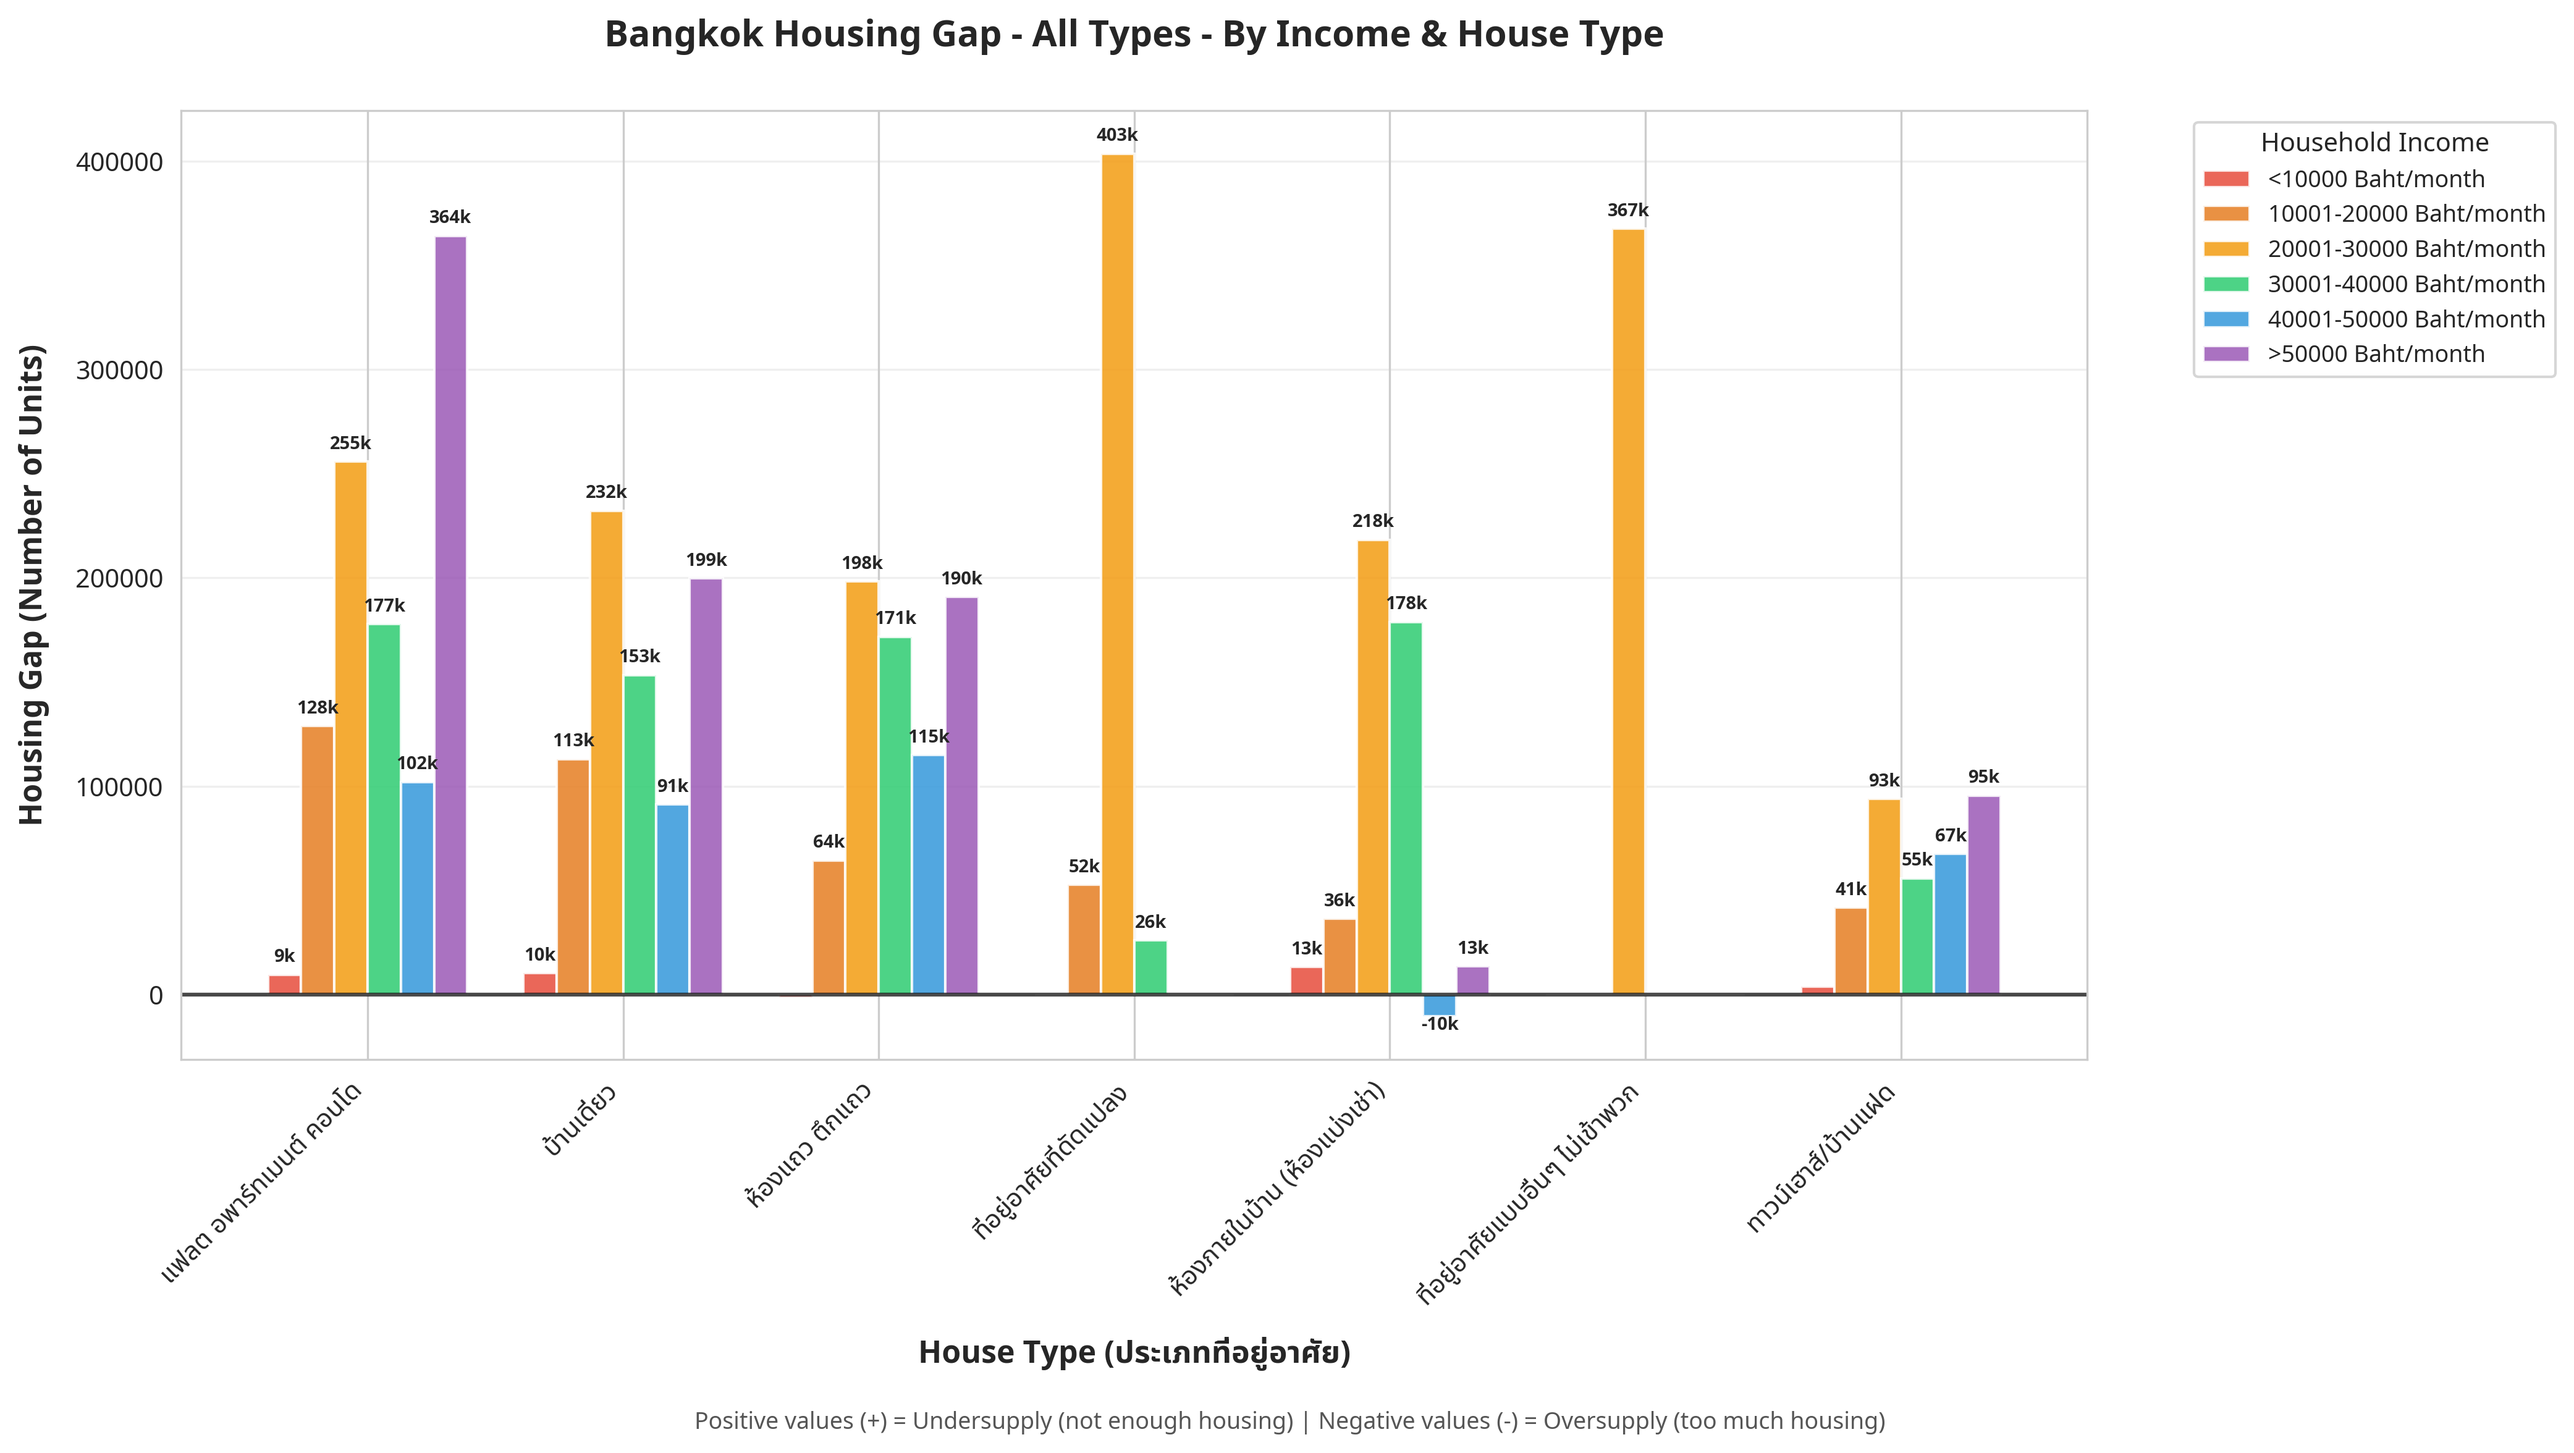
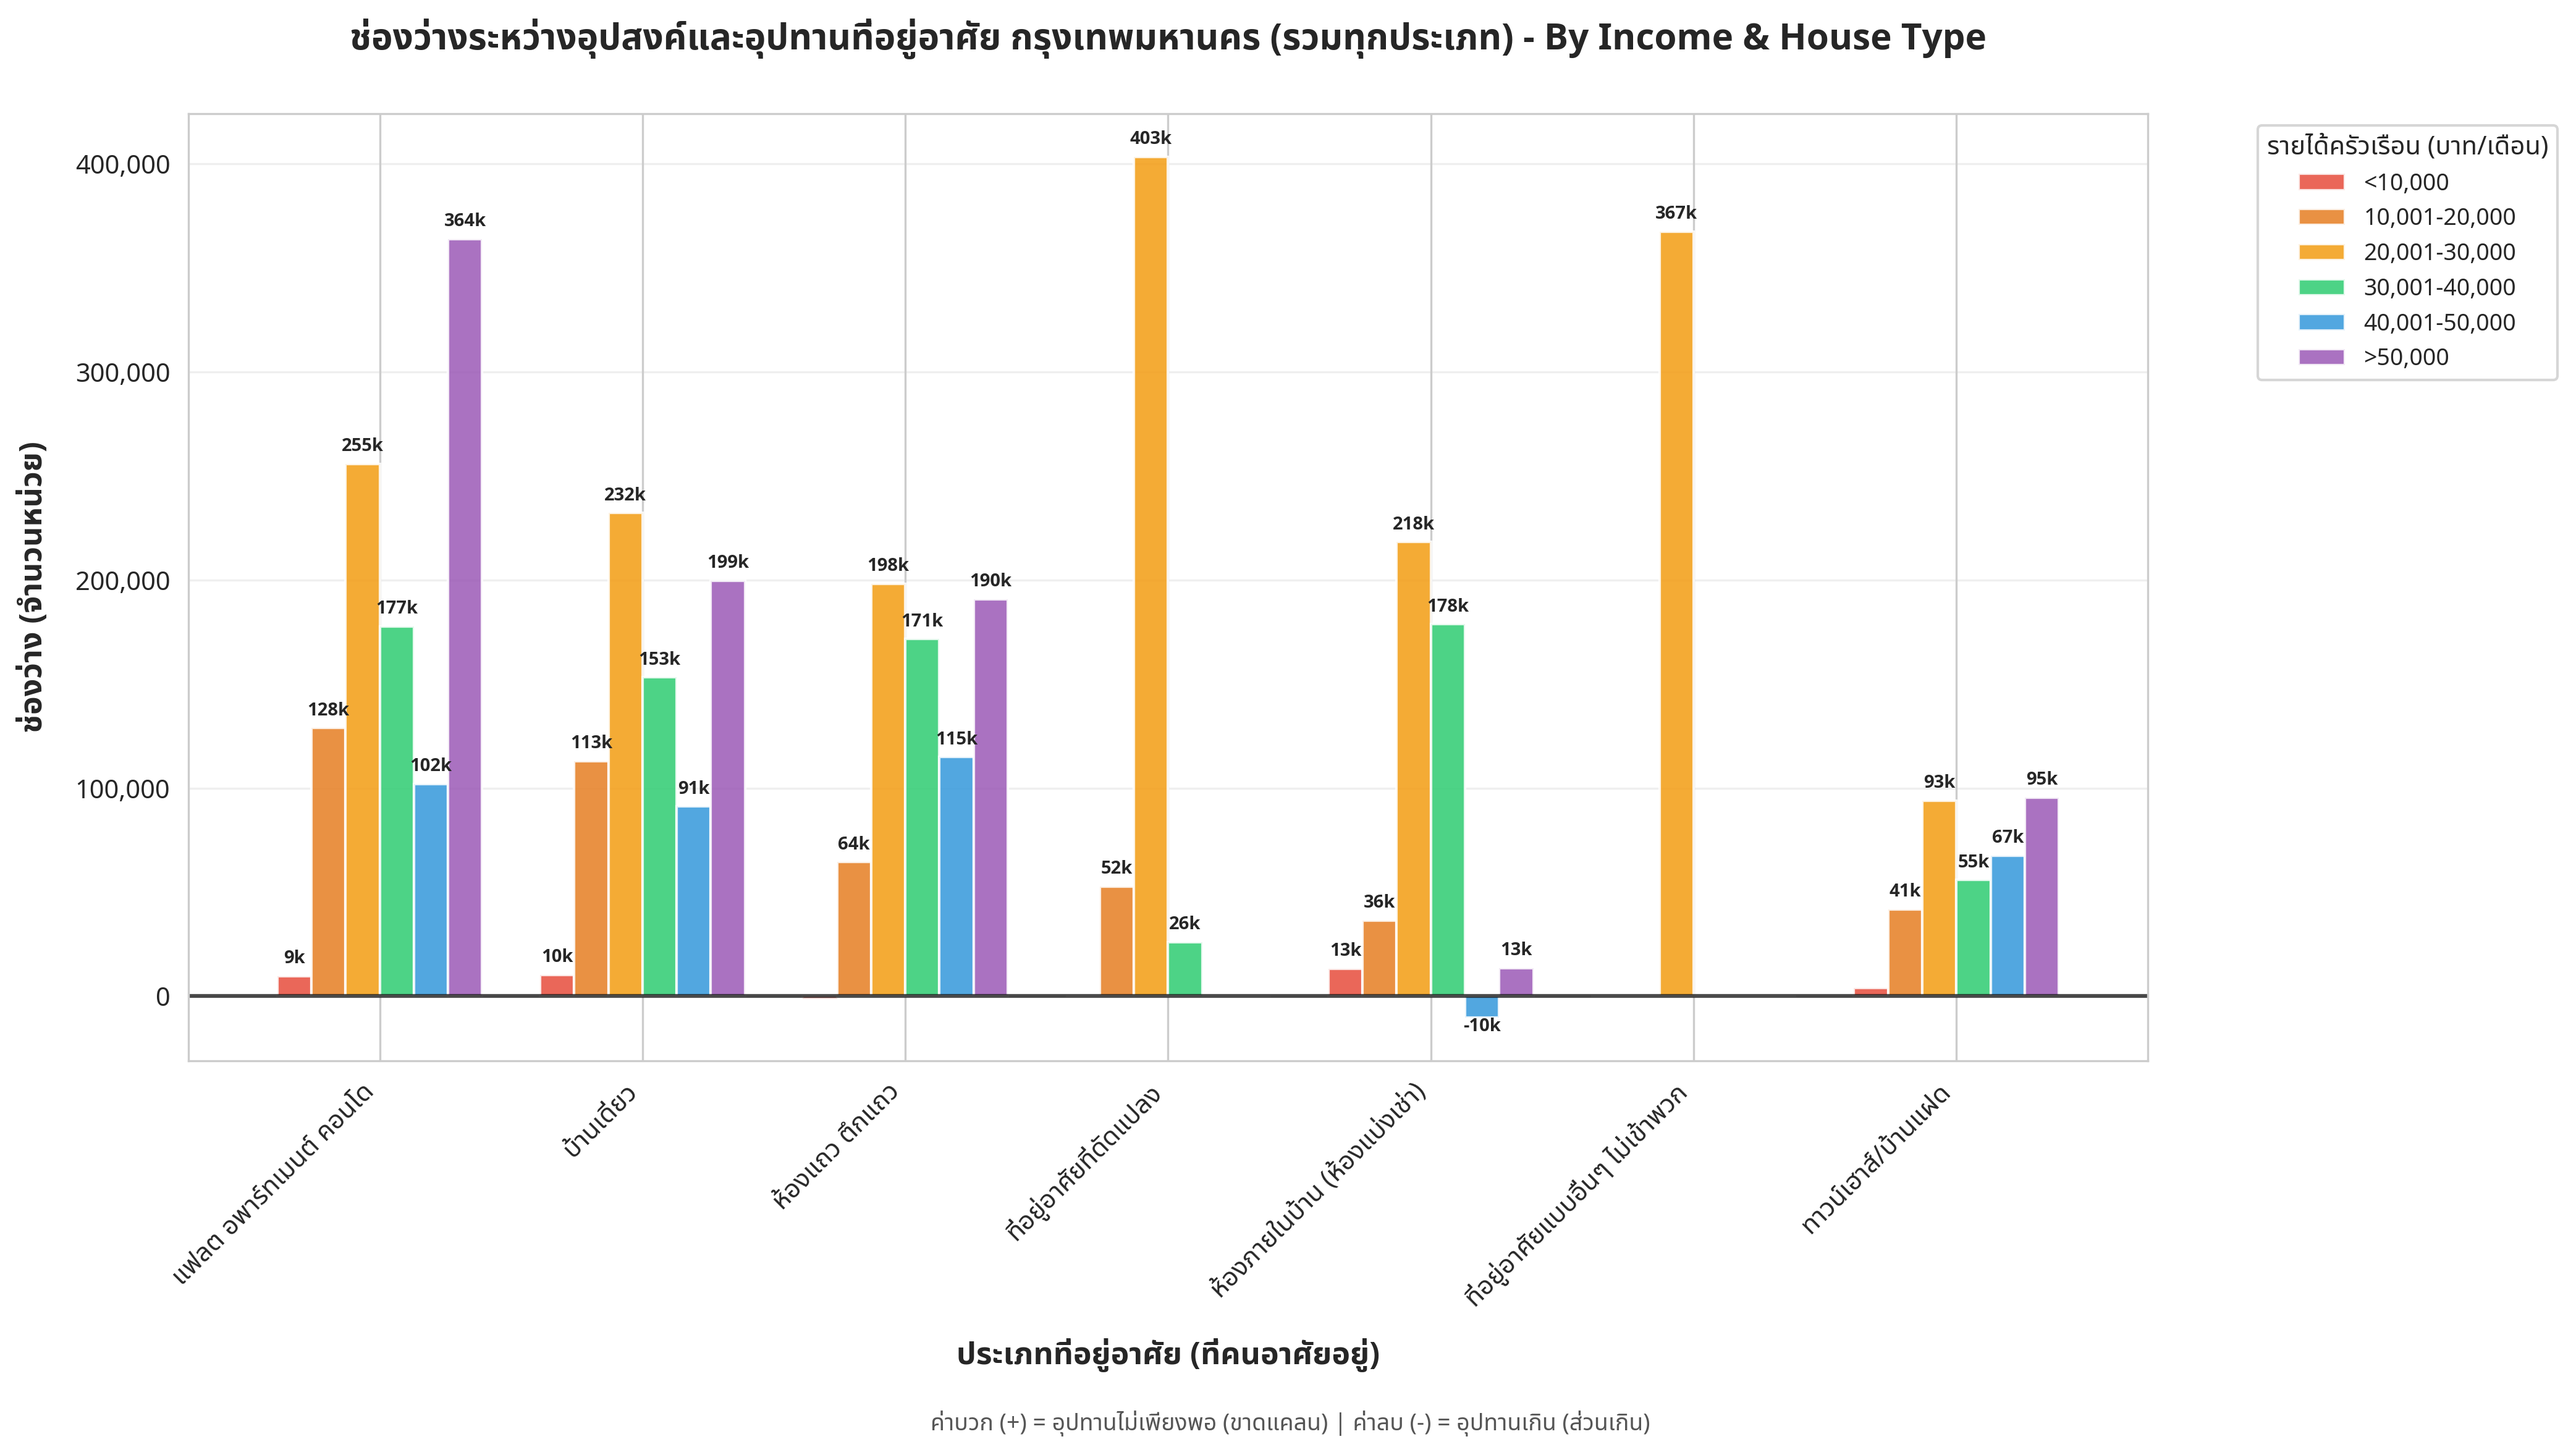
housing chart

diff --git a/generate_housing_gap_charts.py b/generate_housing_gap_charts.py
@@ -9,6 +9,7 @@ import matplotlib.pyplot as plt
 import seaborn as sns
 import os
 import numpy as np
+from matplotlib.ticker import FuncFormatter
 
 # Set seaborn style first
 sns.set_style("whitegrid")
@@ -18,6 +19,11 @@ sns.set_style("whitegrid")
 plt.rcParams['font.sans-serif'] = ['Noto Sans Thai', 'Angsana New', 'Tahoma', 'Browallia New']
 plt.rcParams['font.family'] = 'sans-serif'
 plt.rcParams['axes.unicode_minus'] = False
+
+# Formatter function for axis labels with thousand separators
+def comma_formatter(x, pos):
+    """Format numbers with comma thousand separators"""
+    return f'{int(x):,}'
 
 # Income level colors (different color for each income bracket)
 income_colors = {
@@ -81,8 +87,19 @@ def create_grouped_bar_chart(df, gap_column, title, output_filename):
             offset = (i - 2.5) * width  # Center the bars
             color = income_colors.get(income, '#808080')
 
+            # Format legend label with commas
+            if '-' in income:
+                parts = income.split('-')
+                legend_label = f'{int(parts[0]):,}-{int(parts[1]):,}'
+            elif income.startswith('<'):
+                legend_label = f'<{int(income[1:]):,}'
+            elif income.startswith('>'):
+                legend_label = f'>{int(income[1:]):,}'
+            else:
+                legend_label = income
+
             bars = ax.bar(x + offset, values, width,
-                         label=f'{income} Baht/month',
+                         label=legend_label,
                          color=color, alpha=0.85)
 
             # Add value labels on bars (only for significant values)
@@ -108,14 +125,17 @@ def create_grouped_bar_chart(df, gap_column, title, output_filename):
     ax.axhline(y=0, color='black', linestyle='-', linewidth=1.5, alpha=0.7)
 
     # Formatting
-    ax.set_xlabel('House Type (ประเภทที่อยู่อาศัย)', fontsize=12, fontweight='bold', labelpad=10)
-    ax.set_ylabel('Housing Gap (Number of Units)', fontsize=12, fontweight='bold', labelpad=10)
+    ax.set_xlabel('ประเภทที่อยู่อาศัย (ที่คนอาศัยอยู่)', fontsize=12, fontweight='bold', labelpad=10)
+    ax.set_ylabel('ช่องว่าง (จำนวนหน่วย)', fontsize=12, fontweight='bold', labelpad=10)
     ax.set_title(title, fontsize=14, fontweight='bold', pad=25)
     ax.set_xticks(x)
     ax.set_xticklabels(house_types, rotation=45, ha='right')
 
+    # Format Y-axis with comma thousand separators
+    ax.yaxis.set_major_formatter(FuncFormatter(comma_formatter))
+
     # Legend
-    ax.legend(title='Household Income', bbox_to_anchor=(1.05, 1),
+    ax.legend(title='รายได้ครัวเรือน (บาท/เดือน)', bbox_to_anchor=(1.05, 1),
              loc='upper left', frameon=True, fontsize=9)
 
     # Grid
@@ -124,7 +144,7 @@ def create_grouped_bar_chart(df, gap_column, title, output_filename):
 
     # Add annotation explaining positive/negative values
     fig.text(0.5, 0.01,
-            'Positive values (+) = Undersupply (not enough housing) | Negative values (-) = Oversupply (too much housing)',
+            'ค่าบวก (+) = อุปทานไม่เพียงพอ (ขาดแคลน) | ค่าลบ (-) = อุปทานเกิน (ส่วนเกิน)',
             fontsize=9, style='italic', color='#555555', ha='center')
 
     plt.tight_layout(rect=[0, 0.03, 1, 0.98])
@@ -168,10 +188,21 @@ def create_stacked_bar_chart(df, gap_column, title, output_filename):
         if income in pivot_df.columns:
             color = income_colors.get(income, '#808080')
 
+            # Format legend label with commas
+            if '-' in income:
+                parts = income.split('-')
+                legend_label = f'{int(parts[0]):,}-{int(parts[1]):,}'
+            elif income.startswith('<'):
+                legend_label = f'<{int(income[1:]):,}'
+            elif income.startswith('>'):
+                legend_label = f'>{int(income[1:]):,}'
+            else:
+                legend_label = income
+
             # Positive stack
             pos_vals = pivot_positive[income].fillna(0).values
             ax.bar(x_pos, pos_vals, bottom=bottom_pos,
-                  label=f'{income} Baht/month',
+                  label=legend_label,
                   color=color, alpha=0.85, width=0.7)
             bottom_pos += pos_vals
 
@@ -195,14 +226,17 @@ def create_stacked_bar_chart(df, gap_column, title, output_filename):
     ax.axhline(y=0, color='black', linestyle='-', linewidth=1.5)
 
     # Formatting
-    ax.set_xlabel('House Type (ประเภทที่อยู่อาศัย)', fontsize=12, fontweight='bold', labelpad=10)
-    ax.set_ylabel('Total Housing Gap (Number of Units)', fontsize=12, fontweight='bold', labelpad=10)
+    ax.set_xlabel('ประเภทที่อยู่อาศัย (ที่คนอาศัยอยู่)', fontsize=12, fontweight='bold', labelpad=10)
+    ax.set_ylabel('ช่องว่างรวม (จำนวนหน่วย)', fontsize=12, fontweight='bold', labelpad=10)
     ax.set_title(title, fontsize=14, fontweight='bold', pad=25)
     ax.set_xticks(x_pos)
     ax.set_xticklabels(pivot_df.index, rotation=45, ha='right')
 
+    # Format Y-axis with comma thousand separators
+    ax.yaxis.set_major_formatter(FuncFormatter(comma_formatter))
+
     # Legend
-    ax.legend(title='Household Income', bbox_to_anchor=(1.05, 1),
+    ax.legend(title='รายได้ครัวเรือน (บาท/เดือน)', bbox_to_anchor=(1.05, 1),
              loc='upper left', frameon=True)
 
     # Grid
@@ -211,7 +245,7 @@ def create_stacked_bar_chart(df, gap_column, title, output_filename):
 
     # Annotation
     fig.text(0.5, 0.01,
-            'Positive (+) = Undersupply | Negative (-) = Oversupply',
+            'ค่าบวก (+) = อุปทานไม่เพียงพอ (ขาดแคลน) | ค่าลบ (-) = อุปทานเกิน (ส่วนเกิน)',
             fontsize=9, style='italic', color='#555555', ha='center')
 
     plt.tight_layout(rect=[0, 0.03, 1, 0.98])
@@ -234,34 +268,57 @@ def create_heatmap_chart(df, gap_column, title, output_filename):
     # Replace 0 with NaN to show as blank in heatmap
     pivot_df_display = pivot_df.replace(0, np.nan)
 
-    # Create custom annotation array (show blank for NaN/0, otherwise show value)
-    annot_array = pivot_df_display.applymap(lambda x: '' if pd.isna(x) else f'{x:.0f}')
+    # Create custom annotation array (show blank for NaN/0, otherwise show value with commas)
+    annot_array = pivot_df_display.applymap(lambda x: '' if pd.isna(x) else f'{x:,.0f}')
 
     # Create figure with more space
     fig, ax = plt.subplots(figsize=(14, 8))
 
     # Create heatmap with diverging colormap (red=undersupply, blue=oversupply)
     # Use mask for NaN values to make them white/blank
-    sns.heatmap(pivot_df, annot=annot_array, fmt='',
+    heatmap = sns.heatmap(pivot_df, annot=annot_array, fmt='',
                 cmap='RdYlGn_r',  # Reversed: red for positive (shortage), green for negative (excess)
                 center=0,
                 linewidths=0.5, linecolor='gray',
-                cbar_kws={'label': 'Housing Gap (units)'},
+                cbar_kws={'label': 'ช่องว่าง (หน่วย)'},
                 mask=pivot_df_display.isna(),  # Mask zero/NaN values
                 ax=ax)
 
+    # Format colorbar tick labels with commas
+    colorbar = heatmap.collections[0].colorbar
+    colorbar.ax.yaxis.set_major_formatter(FuncFormatter(comma_formatter))
+
     # Formatting
-    ax.set_xlabel('Household Income (Baht/month)', fontsize=12, fontweight='bold', labelpad=10)
-    ax.set_ylabel('House Type (ประเภทที่อยู่อาศัย)', fontsize=12, fontweight='bold', labelpad=10)
+    ax.set_xlabel('รายได้ครัวเรือน (บาท/เดือน)', fontsize=12, fontweight='bold', labelpad=10)
+    ax.set_ylabel('ประเภทที่อยู่อาศัย (ที่คนอาศัยอยู่)', fontsize=12, fontweight='bold', labelpad=10)
     ax.set_title(title, fontsize=14, fontweight='bold', pad=25)
 
+    # Format X-axis labels with commas (income ranges)
+    income_labels_formatted = []
+    for label in income_order:
+        if '-' in label:
+            # Format ranges like "10001-20000" -> "10,001-20,000"
+            parts = label.split('-')
+            formatted = f'{int(parts[0]):,}-{int(parts[1]):,}'
+            income_labels_formatted.append(formatted)
+        elif label.startswith('<'):
+            # Format "<10000" -> "<10,000"
+            num = label[1:]
+            income_labels_formatted.append(f'<{int(num):,}')
+        elif label.startswith('>'):
+            # Format ">50000" -> ">50,000"
+            num = label[1:]
+            income_labels_formatted.append(f'>{int(num):,}')
+        else:
+            income_labels_formatted.append(label)
+
     # Rotate labels
-    ax.set_xticklabels(ax.get_xticklabels(), rotation=45, ha='right')
+    ax.set_xticklabels(income_labels_formatted, rotation=45, ha='right')
     ax.set_yticklabels(ax.get_yticklabels(), rotation=0)
 
     # Annotation - positioned lower to avoid overlap
     fig.text(0.5, 0.01,
-            'Red = Undersupply (shortage) | Green = Oversupply (excess)',
+            'สีแดง = อุปทานไม่เพียงพอ (ขาดแคลน) | สีเขียว = อุปทานเกิน (ส่วนเกิน)',
             fontsize=9, style='italic', color='#555555', ha='center')
 
     plt.tight_layout(rect=[0, 0.03, 1, 0.98])  # Leave space for title and annotation
@@ -293,17 +350,20 @@ def generate_all_housing_charts():
     charts = [
         {
             'column': 'GAP_ALL',
-            'title': 'Bangkok Housing Gap - All Types',
+            'title': 'ช่องว่างระหว่างอุปสงค์และอุปทานที่อยู่อาศัย กรุงเทพมหานคร (รวมทุกประเภท)',
+            'title_en': 'Housing Supply-Demand Gap in Bangkok (All Types)',
             'type': 'all'
         },
         {
             'column': 'GAP_rent',
-            'title': 'Bangkok Housing Gap - Rental Market',
+            'title': 'ช่องว่างระหว่างอุปสงค์และอุปทานที่อยู่อาศัย กรุงเทพมหานคร (เช่า)',
+            'title_en': 'Housing Supply-Demand Gap in Bangkok (Rental)',
             'type': 'rent'
         },
         {
             'column': 'GAP_Sale',
-            'title': 'Bangkok Housing Gap - Sales Market (Ownership)',
+            'title': 'ช่องว่างระหว่างอุปสงค์และอุปทานที่อยู่อาศัย กรุงเทพมหานคร (ซื้อ/เป็นเจ้าของ)',
+            'title_en': 'Housing Supply-Demand Gap in Bangkok (Ownership)',
             'type': 'sale'
         }
     ]
